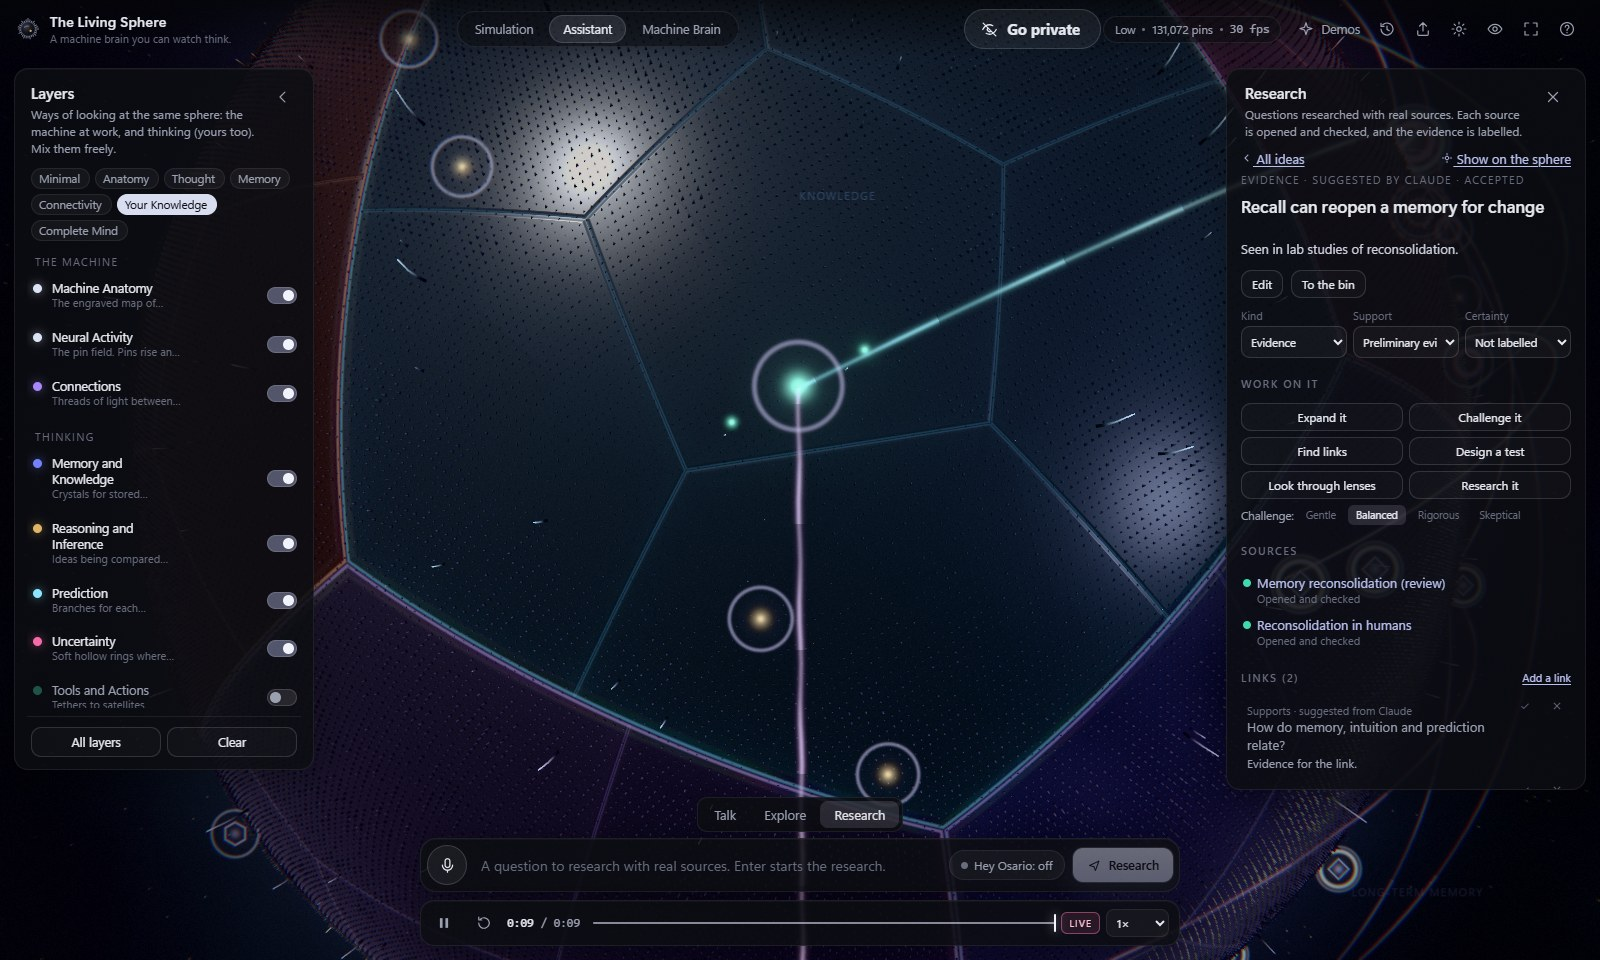
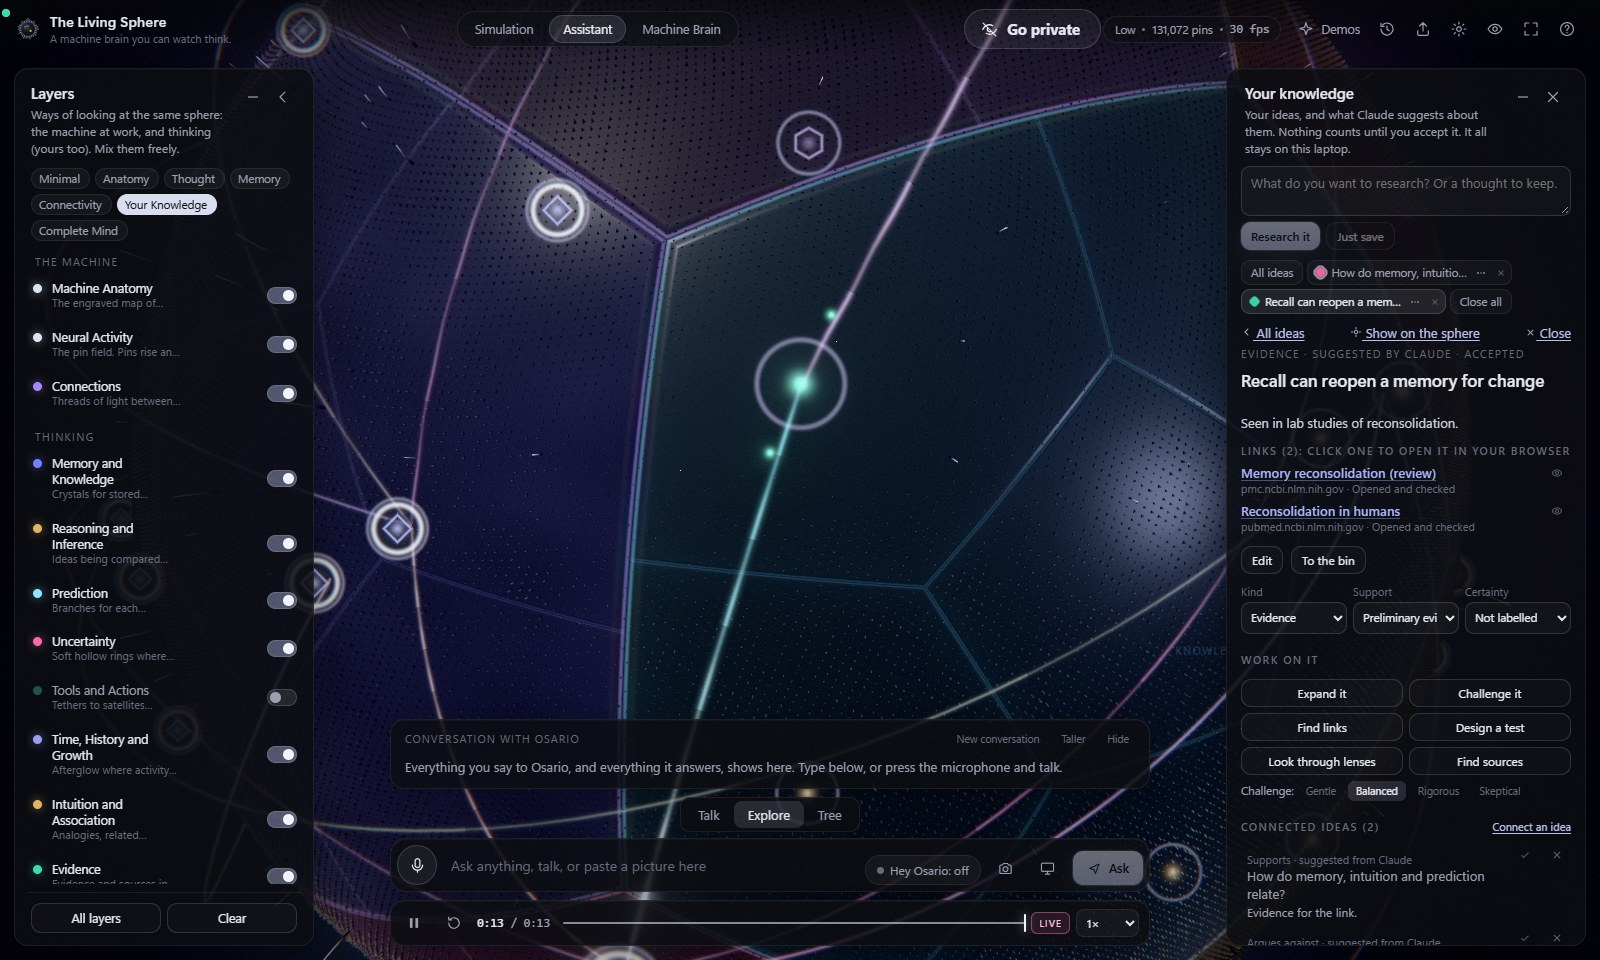
Research as he uses it: every page found for an idea listed under its title, one click to open; a box at the top for anything new (new pictures)

diff --git a/README.md b/README.md
@@ -45,12 +45,12 @@ The voice can be the computer's own, or a natural voice from an ElevenLabs accou
 
 The assistant has three views over one conversation: **Talk**, **Explore** and **Tree**.
 
-- **Explore.** Put a thought in and work it through: **expand** it into questions, assumptions and what follows; **challenge** it (gently, fairly, rigorously, or as a skeptic arguing the other side); **find links** to what you have saved, each named for what kind of link it is (a cause, an analogy, a contradiction, a guess); **design a test** you could actually run for a week; look at it through **lenses** like physics, psychology, history or spirituality, or one of your own; or **find sources**, and the sources come back with the evidence labelled (established, preliminary, an expert's reading, a guess). Every source is opened and checked before it is called checked.
+- **Explore.** Put a thought in and work it through: **expand** it into questions, assumptions and what follows; **challenge** it (gently, fairly, rigorously, or as a skeptic arguing the other side); **find links** to what you have saved, each named for what kind of link it is (a cause, an analogy, a contradiction, a guess); **design a test** you could actually run for a week; look at it through **lenses** like physics, psychology, history or spirituality, or one of your own; or **find sources**, and the sources come back with the evidence labelled (established, preliminary, an expert's reading, a guess). Every source is opened and checked before it is called checked, and every page found for an idea is listed right under its title, where one click opens it in your browser. A box at the top of the panel always takes something new to research or keep, whatever idea is open.
 - **Suggestions stay suggestions.** Nothing Claude offers counts until you accept it, and what you wrote is always marked as yours. Every idea keeps its full history, so changing your mind never erases what you thought before.
 - **It still works with no AI at all.** Saving, searching, linking, history and a set of honest questions of the app's own all work offline, and say so.
 - **It runs on a Claude subscription first.** A pay-per-use backup takes over by itself when the subscription runs out, or straight away at the flip of a switch; it has a monthly ceiling, and says so every time it is used.
 
-![Find sources: two sources, both opened and checked (the teal dots), the evidence labelled](shots/research.jpg)
+![Find sources: every page found for an idea, listed right under its title, opened and checked; one click opens one in your browser](shots/research.jpg)
 
 ![Your ideas on the sphere: your own thoughts carry a pearl ring, linked by threads to what grew from them](shots/knowledge-on-the-sphere.jpg)
 
